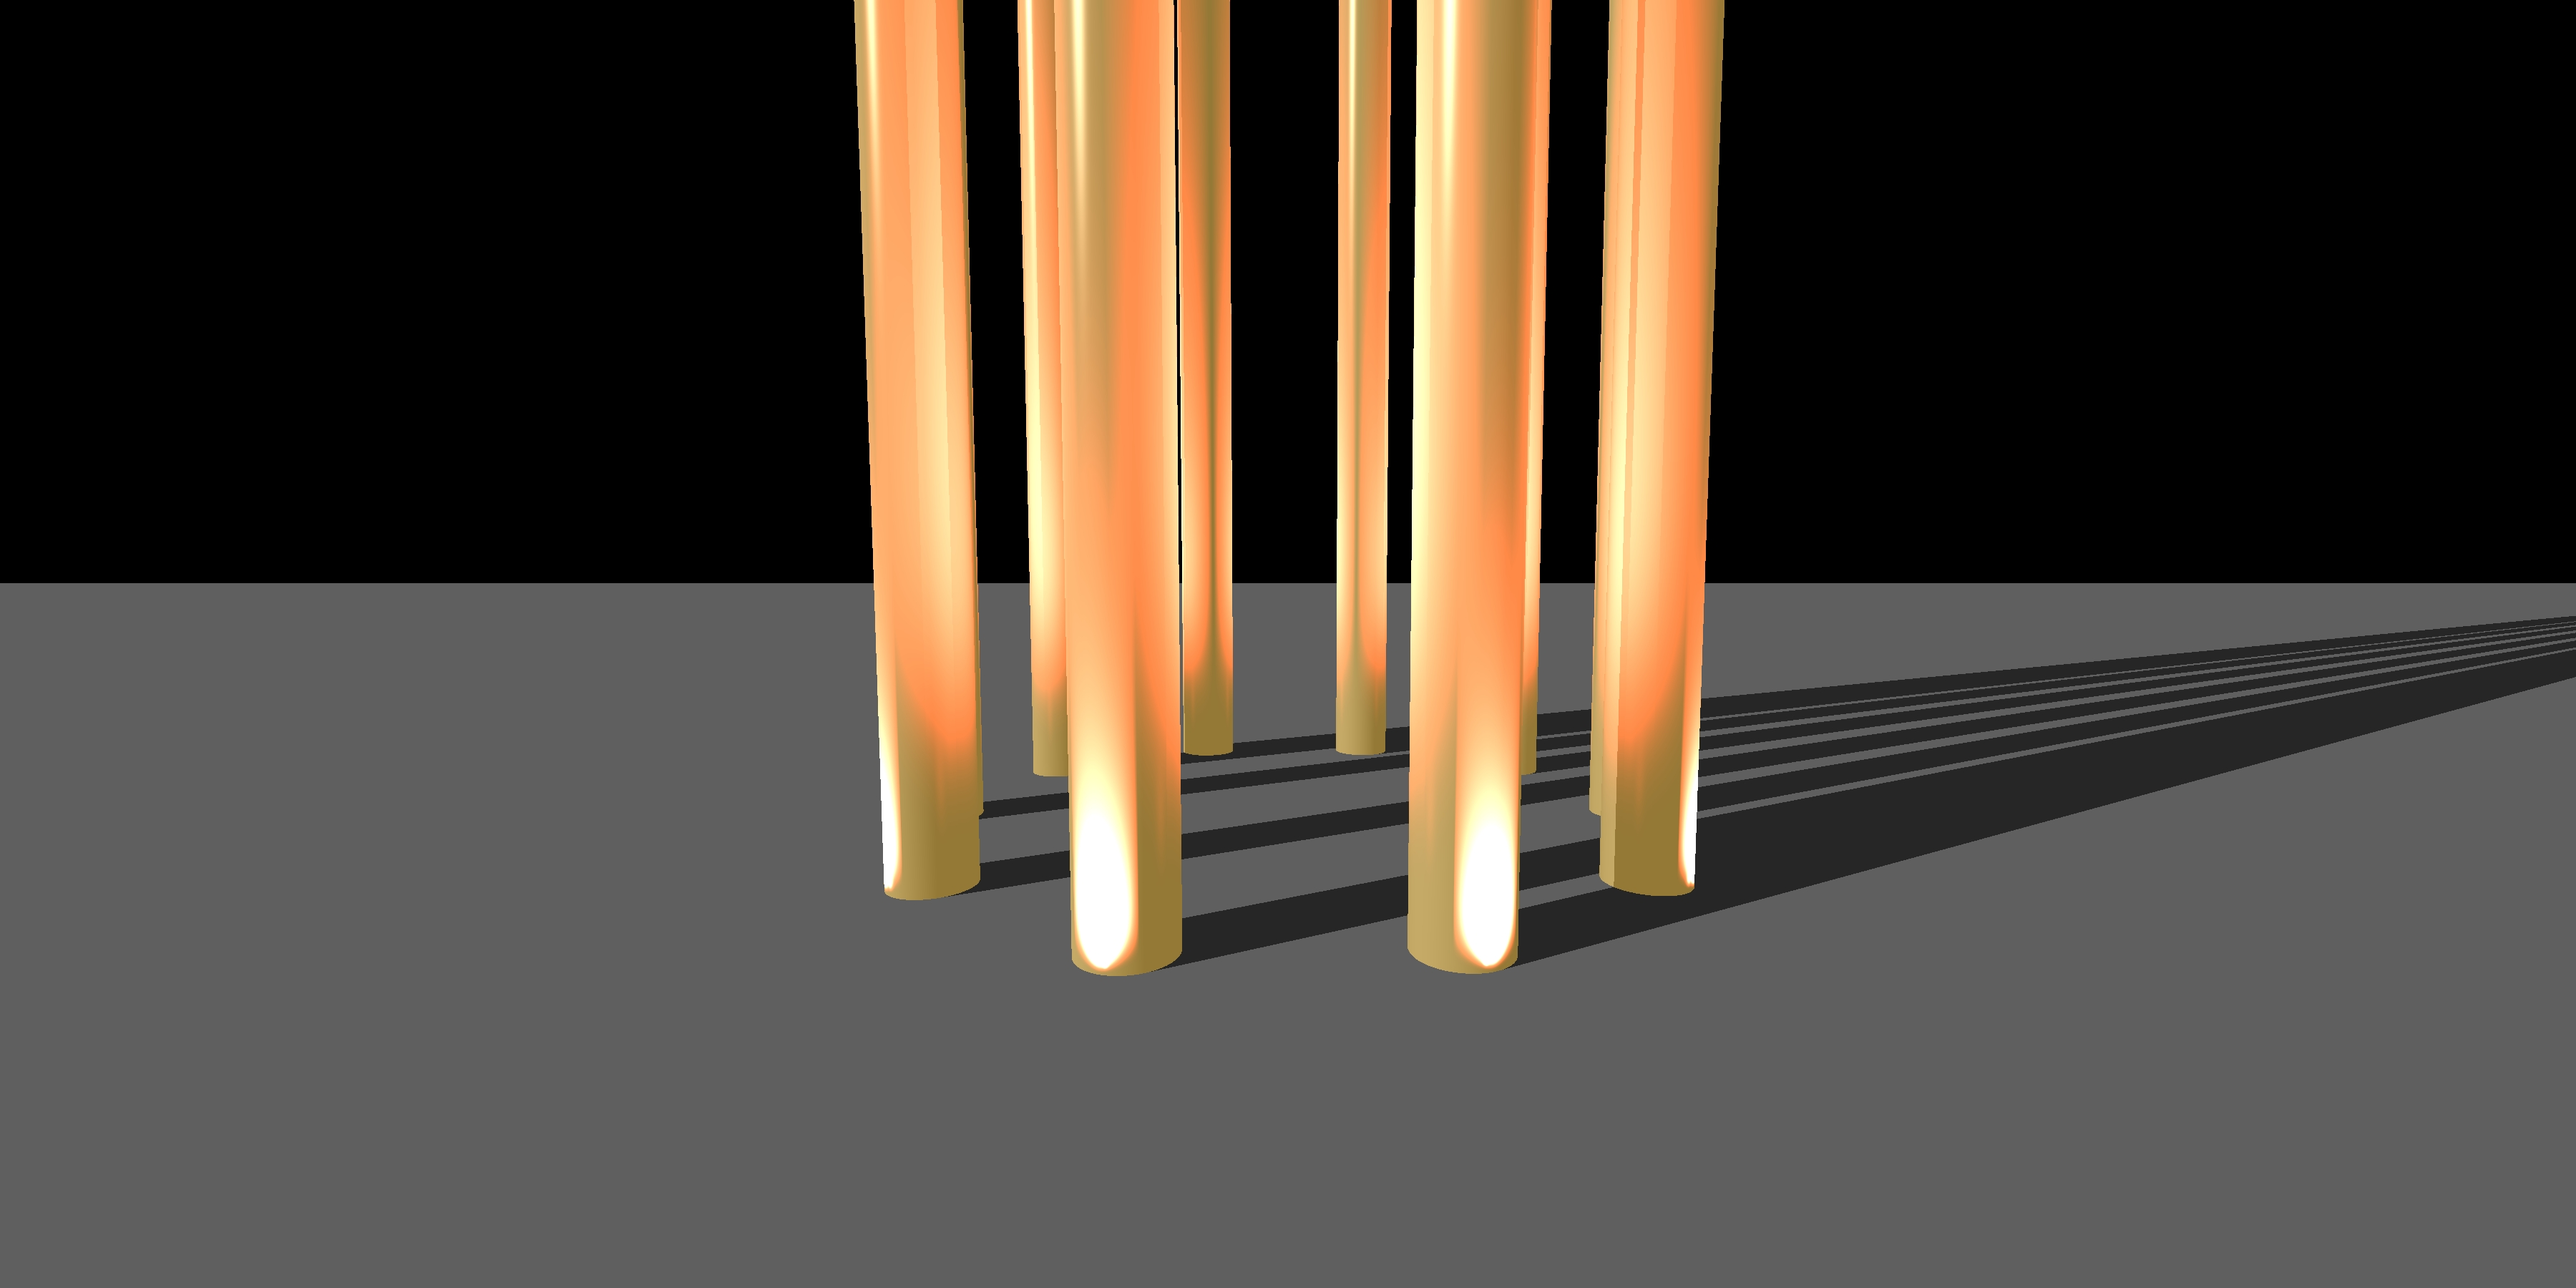
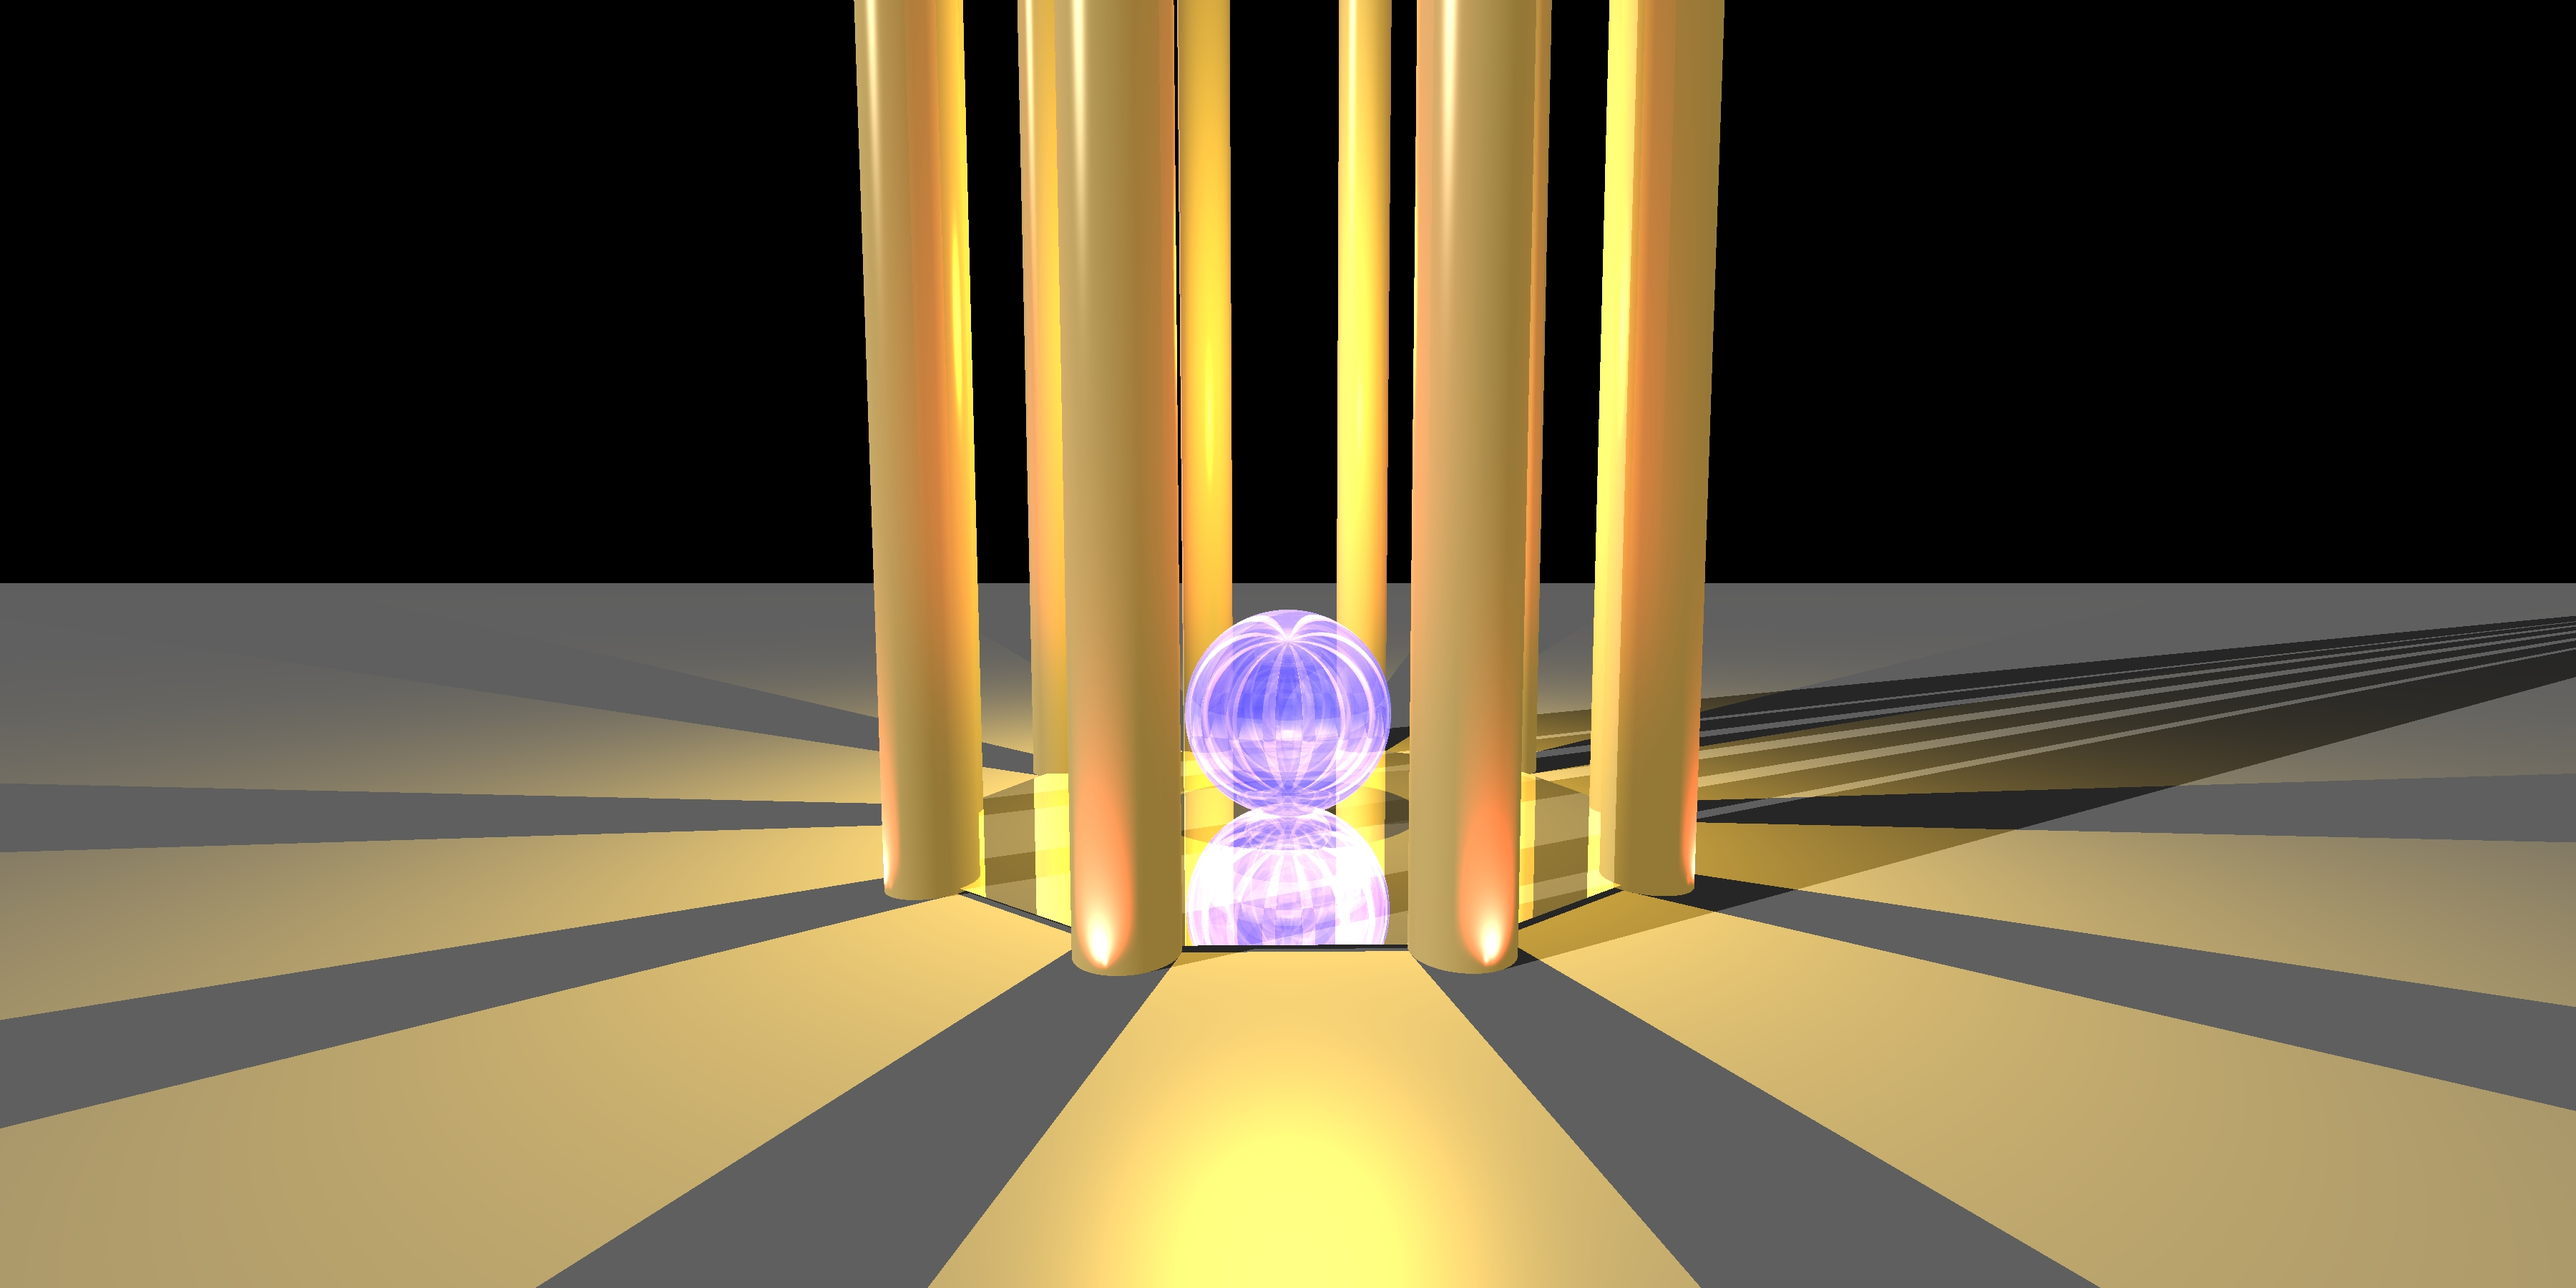
camera and depth of field fix

diff --git a/src/elements/Camera.java b/src/elements/Camera.java
@@ -18,12 +18,17 @@ public class Camera {
     Boolean _depthOfFieldEnabled = false;
     private Point3D _location;
     private Vector _vTo, _vUp, _vRight;
-    private double _focalLenDistance;
-    private int _apertureSize;
-    private int _rayAmount;
+    // parameters for depth of field effect
+    private double _focalLenDistance = 500;
+    private int _apertureSize = 250;
+    private int _rayAmount = 50;
 
     /**
      * create a camera by spheroid parametrization
+     * set default parameters for depth of field effect
+     * focalLenDistance = 500
+     * apertureSize = 250
+     * rayAmount = 50
      *
      * @param sceneCenter the center off the scene to direct to it
      * @param r           the distance fro the center of the center
@@ -32,13 +37,24 @@ public class Camera {
      * @param roll
      */
     public Camera(Point3D sceneCenter, double r, double theta, double phi, double roll) {
+        if (isZero(r)) // to avoid vector 0
+            throw new IllegalArgumentException();
         Vector direction = new Vector(r * Math.sin(phi) * Math.cos(theta),
                 r * Math.sin(phi) * Math.sin(theta),
                 r * Math.cos(phi));
         _location = sceneCenter.add(direction);
         _vTo = direction.scale(-1).normalize();
-        Vector tempUp = direction.crossProduct(new Vector(direction.getEnd().getY().get(),
-                -direction.getEnd().getX().get(), 0).normalize());
+        Vector tempUp = null;
+        if (isZero(direction.getEnd().getX().get()))
+            tempUp = direction.crossProduct(new Vector(0, direction.getEnd().getZ().get(), // todo make error when direction is (0,0,x)
+                    -direction.getEnd().getY().get()).normalize());
+        else if (isZero(direction.getEnd().getY().get()))
+            tempUp = direction.crossProduct(new Vector(direction.getEnd().getZ().get(), // todo make error when direction is (0,0,x)
+                    0, -direction.getEnd().getX().get()).normalize());
+        else if (isZero(direction.getEnd().getZ().get()))
+            tempUp = direction.crossProduct(new Vector(direction.getEnd().getY().get(), // todo make error when direction is (0,0,x)
+                    -direction.getEnd().getX().get(), 0)).normalize();
+
         Vector tempRight = _vTo.crossProduct(tempUp).normalize();
         double x1 = Math.cos(roll) / tempUp.length();
         double x2 = Math.sin(roll) / tempRight.length();
@@ -52,6 +68,10 @@ public class Camera {
 
     /**
      * constructor of Camera
+     * set default parameters for depth of field effect
+     * focalLenDistance = 500
+     * apertureSize = 250
+     * rayAmount = 50
      *
      * @param location Point3D on the camera
      * @param vTo      vector direction forward
@@ -182,7 +202,7 @@ public class Camera {
     }
 
     /**
-     * return point3D - the starting point of tay from the view plane that goes through focal point
+     * return point3D - the starting point of ray from the view plane that goes through focal point
      *
      * @param pij pixel on view plane
      * @param j   pixel row index
@@ -190,8 +210,8 @@ public class Camera {
      * @return the starting point of tay from the view plane that goes through focal point
      */
     private Point3D getHeadFocalRay(Point3D pij, int j, int i) {
-        int numRaysInWidth = (int) Math.sqrt(_rayAmount);
-        int focalLenSize = (int) Math.sqrt(_apertureSize);
+        double numRaysInWidth = Math.sqrt(_rayAmount);
+        double focalLenSize = _apertureSize;
         double ry = focalLenSize / numRaysInWidth;
         double rx = focalLenSize / numRaysInWidth;
 
@@ -244,6 +264,7 @@ public class Camera {
 
     /**
      * return distance between view plane and focal plane
+     *
      * @return distance between view plane and focal plane
      */
     public double getFocalLenDistance() {
@@ -261,6 +282,7 @@ public class Camera {
 
     /**
      * return amount of rays
+     *
      * @return amount of rays
      */
     public int getRayAmount() {

diff --git a/src/unittests/renderer/DepthOfFieldTest.java b/src/unittests/renderer/DepthOfFieldTest.java
@@ -22,10 +22,39 @@ import java.awt.*;
 public class DepthOfFieldTest {
 
     @Test
-    public void fourBallsDepthOfFieldTest() { // todo we have a bag..
+    public void fourBallsDepthOfFieldTest_one() {
         Scene scene = new Scene("Test scene");
-        scene.setCamera(new Camera(new Point3D(0, 0, 0), 800, 0.2, Math.PI / 3, Math.PI));
-        scene.getCamera().setDepthOfField(400, 1000, 100);
+        scene.setCamera(new Camera(new Point3D(0, 0, 0), 800, 0, 0, Math.PI));
+        scene.getCamera().setDepthOfField(400, 32, 100);
+        scene.getCamera().setDepthOfFieldEnabled();
+        scene.setDistance(400);
+        scene.setBackground(primitives.Color.BLACK);
+        scene.setAmbientLight(new AmbientLight(new primitives.Color(java.awt.Color.WHITE), 0.15));
+        final double KD = 0.3, KS = 1 - KD, KT = 0, KR = 1;
+        primitives.Color sphereColor = new primitives.Color(Color.blue);
+        scene.addGeometries(
+                new Sphere(sphereColor, new Material(KD, KS, 30, KT, KR),
+                        100, new Point3D(300, 0, 0)),
+                new Sphere(sphereColor, new Material(KD, KS, 30, KT, KR),
+                        100, new Point3D(0, 0, 0)),
+                new Sphere(sphereColor, new Material(KD, KS, 30, KT, KR),
+                        100, new Point3D(-300, 0, 0)),
+                new Sphere(sphereColor, new Material(KD, KS, 30, KT, KR),
+                        100, new Point3D(-600, 0, 0)),
+                new Sphere(sphereColor, new Material(KD, KS, 30, KT, KR),
+                        100, new Point3D(-900, 0, 0)));
+
+        scene.addLights(new DirectionalLight(new primitives.Color(200, 200, 200), new Vector(-1, 1, -1)));
+
+            ImageWriter imageWriter = new ImageWriter("fourBallsDepthOfFieldTest_one4", 600, 600, 1200, 1200);
+            Render render = new Render(imageWriter, scene);
+            render.renderImage();
+            render.writeToImage();
+    }
+
+    @Test
+    public void fourBallsDepthOfFieldTest() {
+        Scene scene = new Scene("Test scene");
         scene.setDistance(400);
         scene.setBackground(primitives.Color.BLACK);
         scene.setAmbientLight(new AmbientLight(new primitives.Color(java.awt.Color.WHITE), 0.15));
@@ -47,6 +76,7 @@ public class DepthOfFieldTest {
         for (int i = 0; i < NUM_PICTURES; ++i) {
             double theta = Math.PI * 2 * (i * 1.0 / NUM_PICTURES);
             scene.setCamera(new Camera(new Point3D(0, 0, 0), 800, theta, Math.PI / 3, Math.PI));
+            scene.getCamera().setDepthOfField(400, 1000, 100);
             scene.getCamera().setDepthOfFieldEnabled();
             ImageWriter imageWriter = new ImageWriter("fourBallsDepthOfFieldTestEnabled" + i, 600, 600, 1200, 1200);
             Render render = new Render(imageWriter, scene);

diff --git a/src/unittests/renderer/ReflectionRefractionTests.java b/src/unittests/renderer/ReflectionRefractionTests.java
@@ -321,9 +321,9 @@ public class ReflectionRefractionTests {
         Color triangleColor = new Color(java.awt.Color.black);
         scene.addGeometries(
                 new Plane(new Color(java.awt.Color.black), new Material(0.5, 0.5, 30, 0, 0),
-                        new Point3D(0, 0, 0), new Vector(0, 0, 1))/*,
+                        new Point3D(0, 0, 0), new Vector(0, 0, 1)),
                 new Sphere(new Color(java.awt.Color.blue), new Material(0.2, 0.2, 30, 0.6, 0.4),
-                        300, new Point3D(0, 0, 300))*/);
+                        300, new Point3D(0, 0, 300)));
         final double TUBE_RADIUS = 1000;
         final int NUM_OF_TUBES = 10;
         for (int i = 0; i < NUM_OF_TUBES; ++i) {
@@ -332,7 +332,7 @@ public class ReflectionRefractionTests {
                     new Tube(new Color(109, 82, 16), new Material(0.3, 0.7, 50, 0, 0),
                             new Point3D(TUBE_RADIUS * Math.cos(theta), TUBE_RADIUS * Math.sin(theta), 10), new Vector(0, 0, 1), 100));
         }
-        /*Point3D[] polygonPoints = new Point3D[NUM_OF_TUBES];
+        Point3D[] polygonPoints = new Point3D[NUM_OF_TUBES];
         for (int i = 0; i < NUM_OF_TUBES; ++i) {
             double theta = Math.PI * 2 * (i * 1.0 / NUM_OF_TUBES);
             polygonPoints[i] = new Point3D(TUBE_RADIUS * Math.cos(theta), TUBE_RADIUS * Math.sin(theta), 10);
@@ -341,7 +341,6 @@ public class ReflectionRefractionTests {
 
         scene.addLights(new PointLight(new Color(654, 495, 96),
                 new Point3D(0, 0, 1500), 1, 4E-5, 2E-7));
-*/
         scene.addLights(new DirectionalLight(new Color(200, 200, 200), new Vector(-1, 1, -1)));
         final int NUM_OF_POINT_LIGHT = NUM_OF_TUBES;
         final double LIGHT_RADIUS = TUBE_RADIUS + 130;
@@ -350,7 +349,7 @@ public class ReflectionRefractionTests {
             double theta = Math.PI * 2 * (i * 1.0 / NUM_OF_POINT_LIGHT);
             Point3D downPoint = new Point3D(LIGHT_RADIUS * Math.cos(theta), LIGHT_RADIUS * Math.sin(theta), 5);
             Point3D upPoint = new Point3D(TUBE_RADIUS * Math.cos(theta), TUBE_RADIUS * Math.sin(theta), 250);
-            scene.addLights(new SpotLight(new Color(95000, 15000, 15000), downPoint,
+            scene.addLights(new SpotLight(new Color(9500, 1500, 1500), downPoint,
                     upPoint.subtract(downPoint), 10,
                     1, 0.0001, 0.000005));
         }
